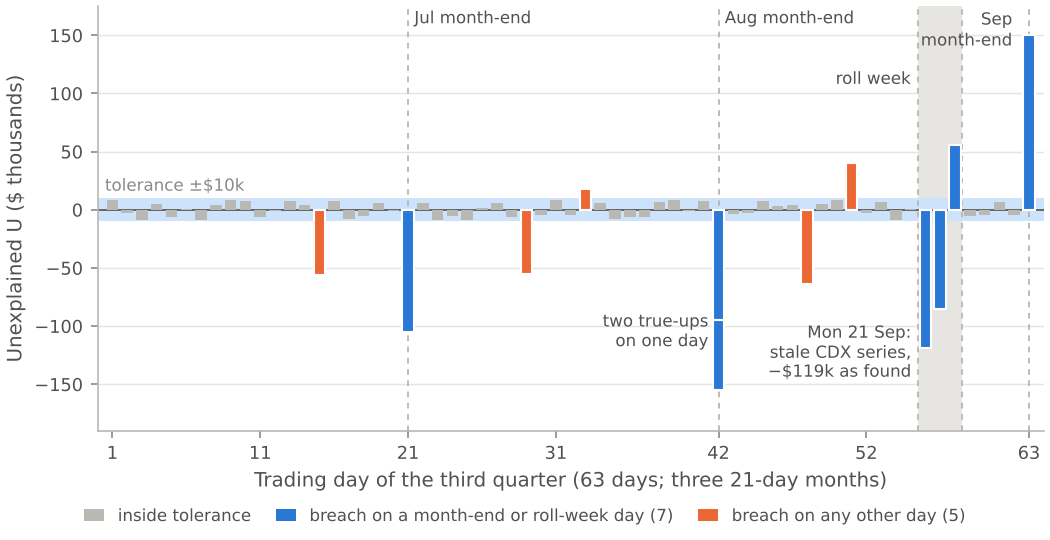
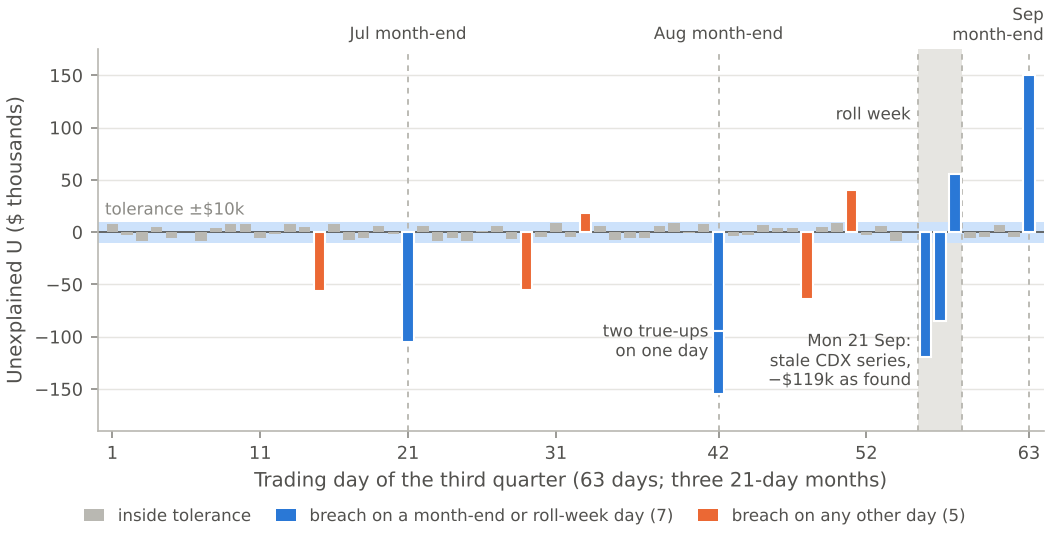
Snapshot: in-flight Edition 2 work
Claude-Session: https://claude.ai/code/session_01PHHQVL5vNoxjdDFeTkxsPq

diff --git a/tools/figures/ch08c.py b/tools/figures/ch08c.py
@@ -115,7 +115,7 @@ def fig_waterfall():
     # tolerance band around the explained total (the official number must land inside it)
     explained = -390.0
     ax.add_patch(Rectangle((explained - TOL, n - 3 - 0.45), 2 * TOL, 3 * 1.0 - 0.1, color=C_TOL, zorder=1, lw=0))
-    ax.text(explained + TOL + 8, n - 2, "tolerance band " + "\u00b1" + "$10k around the explained total", va="center",
+    ax.text(explained + TOL + 8, n - 2, "tolerance " + "\u00b1" + "$10k around the explained total", va="center",
             ha="left", fontsize=8, color=MUTED)
 
     ax.set_yticks(range(n))
@@ -151,7 +151,7 @@ def fig_waterfall():
 
     from matplotlib.patches import Patch
     handles = [Patch(color=C_FACT, label="Fact (custodian, exchange, clearing, treasury, blotter)"),
-               Patch(color=C_MODEL, label="Model forecast (risk model x market moves)"),
+               Patch(color=C_MODEL, label="Model forecast (risk model \u00d7 market moves)"),
                Patch(color=C_PC, label="Product control correction"),
                Patch(color=C_U, label="Unexplained (no source)")]
     fig.legend(handles=handles, loc="outside lower center", ncol=2, fontsize=8, handlelength=1.2,
@@ -422,13 +422,15 @@ def fig_unexplained_by_day():
             else:
                 neg += v
     ax.axhline(0, color=INK_2, lw=0.8, zorder=2)
-    # month-end lines
-    for d, nm in zip([21, 42], ["Jul month-end", "Aug month-end"]):
-        mark_event(ax, d, nm, y_frac=0.99)
-    ax.axvline(63, color=NEUTRAL, lw=0.9, linestyle=(0, (3, 3)), zorder=1)
-    ax.annotate("Sep\nmonth-end", (63, 0.99), xycoords=("data", "axes fraction"), xytext=(-8, 0),
-                textcoords="offset points", fontsize=8, color=INK_2, va="top", ha="right", linespacing=1.15)
+    # month-end lines, labelled in a row above the plot so no dashed line runs through a label
+    for d in (21, 42, 63):
+        ax.axvline(d, color=NEUTRAL, lw=0.9, linestyle=(0, (3, 3)), zorder=1)
+    top = dict(xycoords=("data", "axes fraction"), textcoords="offset points", xytext=(0, 3), va="bottom",
+               fontsize=8, color=INK_2, annotation_clip=False)
+    ax.annotate("Jul month-end", (21, 1.0), ha="center", **top)
+    ax.annotate("Aug month-end", (42, 1.0), ha="center", **top)
     ax.text(55.0, 112, "roll week", ha="right", va="center", fontsize=8, color=INK_2)
+    ax.annotate("Sep\nmonth-end", (64, 1.0), ha="right", linespacing=1.1, **top)
     ax.annotate("Mon 21 Sep:\nstale CDX series,\n" + MINUS + "$119k as found", (55.6, -119), xytext=(-4, -2),
                 textcoords="offset points", fontsize=8, color=INK_2, va="center", ha="right", linespacing=1.15)
     ax.annotate("two true-ups\non one day", (41.6, -105), xytext=(-2, 0), textcoords="offset points",

diff --git a/book_src/02_ch02_revolutions_in_credit_trading.md b/book_src/02_ch02_revolutions_in_credit_trading.md
@@ -269,7 +269,7 @@ Theo's first instinct with a table like this is a banker's: find the biggest num
 
 "Fine. IG is 48%."
 
-"Or about 60%. Or around half. Which?" She scrolls to the source column. Greenwich says 48% for full-year 2024. MarketAxess's own 10-K estimates, on the company's definition, say about 50% for the same year and about 60% for 2025. Barclays, as reported in September 2025, puts it around or above half on broader definitions. "Same market, same year. The difference is the word 'electronic.'" She counts its meanings on her fingers. *Fully electronic*: negotiated and executed on a venue. *Processed*: negotiated by voice or chat, booked electronically afterward. *Auto-executed*: no human touched it at all. "And then the denominator: notional, ticket count or customer volume. A ticket-count share runs higher than a notional share, because the wire got the small tickets first. Kaz won't touch a series until somebody has written on it which 'electronic' it means and what it divides by. This week, that somebody is you."
+"Or about 60%. Or around half. Which?" She scrolls to the source column. Greenwich says 48% for full-year 2024. MarketAxess's own 10-K estimates, on the company's definition, say about 50% for the same year and about 60% for 2025. Barclays, as reported in September 2025, puts it around or above half on broader definitions. "Same market, same year. The difference is the word 'electronic.'" She counts its meanings on her fingers. *Fully electronic*: negotiated and executed on a venue. *Processed*: negotiated by voice or chat, booked electronically afterward. *Auto-executed*: no human touched it at all. "And then the denominator: notional, ticket count or customer volume. A ticket-count share runs higher than a notional share, because the wire got the small tickets first. Bondwave divides portfolio trading by *customer* volume; a platform quotes its share of TRACE, interdealer prints included. Splice two of those into one series and your fitted growth rate partly measures the change of definition. Kaz won't touch a series until somebody has written on it which 'electronic' it means and what it divides by. This week, that somebody is you."
 
 Theo looks at the HY column again. 29% in February 2024, 30% in February 2025, against 33% for full-year 2024. "So HY went backwards?"
 
@@ -285,17 +285,13 @@ so 103% of HY would trade electronically by 2030. Nobody told it that $K \le 1$.
 
 The honest model is a logistic with a ceiling, and the intuition behind it is older than any bond market.
 
-> **Math, Gently.** *Odds and the S-curve.* Picture a rumor loose in a school of 1,000 pupils. On the first morning ten of them know it. Each one who knows passes it on at a steady rate, but only to pupils who have not heard it yet. So at the start the rumor spreads slowly, because there are few tellers, and at the end it spreads slowly, because there is almost nobody left to tell. It spreads fastest when half the school knows, and a plot of "share who know" against time is an S. The top of the S is the size of the school, not infinity. There is a ceiling, $K$, and in a bond market the ceiling is set by the tickets that will never leave the phone. (ROBO's 103% is what happens when a model forgets the school has walls.) The trick that tames the S is to stop watching the share and watch the **odds**: those who know divided by those still to be told, $e/(K-e)$. On a logistic S-curve the odds grow by the same *percentage* every year, so their logarithm, the **log-odds**, rises in a straight line, and a straight line can be drawn with a ruler and two points. A tiny number: US IG electronic share was about 20% in 2015 and 48% in 2025 (Greenwich). With $K = 1$ the odds went from $0.20/0.80 = 0.25$ to $0.48/0.52 \approx 0.92$, multiplying by about 3.7 in ten years. That is a growth rate of $r \approx 0.131$ a year, and odds that grow at rate $r$ double every $\ln 2/r \approx 0.693/0.131 \approx 5.3$ years. The full version is the derivation below.
+> **Math, Gently.** *Odds and the S-curve.* Picture a rumor loose in a school of 1,000 pupils. On the first morning ten of them know it. Each one who knows passes it on at a steady rate, but only to pupils who have not heard it yet. So at the start the rumor spreads slowly, because there are few tellers, and at the end it spreads slowly, because there is almost nobody left to tell. It spreads fastest when half the school knows, and a plot of "share who know" against time is an S. The top of the S is the size of the school, not infinity. There is a ceiling, $K$, and in a bond market the ceiling is set by the tickets that will never leave the phone. (ROBO's 103% is what happens when a model forgets the school has walls.) The trick that tames the S is to stop watching the share and watch the **odds**: those who know divided by those still to be told, $e/(K-e)$. On a logistic S-curve the odds grow by the same *percentage* every year, so their logarithm, the **log-odds**, rises in a straight line, and a straight line can be drawn with a ruler and two points. A tiny number: if a share climbs from 20% to 50% in ten years with $K = 1$, the odds go from $0.20/0.80 = 0.25$ to $0.50/0.50 = 1$, multiplying by 4. That is a growth rate of $r = \ln 4/10 \approx 0.139$ a year, and odds growing at that rate double every $\ln 2/r \approx 5$ years. The derivation below runs the real IG and HY points.
 
-The same ruler through the HY points gives a steeper line, with odds doubling every 3.5 years, because HY started from 6%. Projected to 2030 with a ceiling of 100%, IG reaches 64% and HY 56%. These are *illustrative extrapolations*, not forecasts, and the projection is the least interesting thing the arithmetic says.
+Two things sit inside the arithmetic, and both matter more than the projections.
 
-Two things sit inside that arithmetic, and both are better than the numbers.
+*The ceiling is not identified from two points.* Each choice of $K$ gives a different line through the same two observations. Redo the fit with $K = 0.80$, roughly the ceiling Barclays has suggested for electronic execution (via The DESK, Jan 2025), and the fitted slope *rises* while the 2030 projection falls (the derivation below has the numbers). A lower ceiling means a *faster* implied adoption rate, because the same observed share is closer to the ceiling than it looked. You need curvature to estimate $K$, meaning at least three points with the curve visibly bending. The only bend in the US IG series is 2024 to 2025 (48% to 48%), a single year that could just as well be noise. In practice, $K$ comes from outside evidence, and §2.8's is blunt: at the end of 2023 about nine block trades in ten still went by phone or chat.
 
-*The ceiling is not identified from two points.* Each choice of $K$ gives a different line through the same two observations. Redo the fit with $K = 0.80$, roughly the ceiling Barclays has suggested for electronic execution (via The DESK, Jan 2025), and the IG slope rises from 0.131 to 0.150 a year while the 2030 projection falls from 64% to 61%; HY moves to a slope of 0.211 and a 2030 value of 53%. A lower ceiling means a *faster* implied adoption rate, because the same observed share is closer to the ceiling than it looked. You need curvature to estimate $K$, meaning at least three points with the curve visibly bending. The only bend in the US IG series is 2024 to 2025 (48% to 48%), a single year that could just as well be noise. In practice, $K$ comes from outside evidence, and here the outside evidence is blunt: in December 2023 about 90% of block trades (IG of \$5mm or more, HY of \$1mm or more) were still done by phone or chat (Greenwich, Dec 7, 2023). Section 2.8 returns to those blocks.
-
-*Fit the right object.* If you fit all three parameters by least squares on the levels, an optimizer given the IG points $\{0.20, 0.48, 0.48\}$ is free to set $K$ at about 0.48, make $r$ as steep as its bounds allow and report that US IG electronification was over by about 2017. The fit is perfect, and meaningless. Kaz tried this. Kaz now treats a fitted ceiling equal to the latest observation as a diagnostic, not a result. The code in §2.9 prints a warning when it happens.
-
-So when does the curve earn its place? It is a good way to *frame* a projection. It lets a desk say "if the ceiling is 80%, here is how fast the remaining gap closes," and it shows a PM that "electronification is finished" and "electronification has decades to run" are both claims about $K$, not about $r$. It is a poor way to *estimate* $K$, for the reasons Kaz learned the hard way. A practitioner gets the ceiling from the anatomy of the market instead. About 90% of blocks still went by phone or chat in December 2023, and blocks carry a large share of notional, which puts a lid well below 100% on any notional-weighted series. HY has sat near a third for four years, which is either a ceiling or a very long plateau, and no curve fitted to those points can say which. Before trusting a projection, an experienced hand checks three things: whether the series' definition changed partway (the box below), whether a stress year sits in the sample (HY e-share falls when trading gets hard), and whether the fitted ceiling equals the latest observation. And the curve breaks outright when the mechanism changes. Portfolio trading (§2.6) put blocks on the wire as baskets, which moves the ceiling itself, and a logistic with a fixed $K$ has no way of noticing.
+*Fit the right object.* If you fit all three parameters by least squares on the levels, an optimizer given the IG points $\{0.20, 0.48, 0.48\}$ is free to set $K$ at about 0.48, make $r$ as steep as its bounds allow and report that US IG electronification was over by about 2017. The fit is perfect, and meaningless. Kaz tried this. Kaz now treats a fitted ceiling equal to the latest observation as a diagnostic, not a result, and the code in §2.9 prints a warning when it happens. A ceiling also has a shelf life: portfolio trading (§2.6) put blocks on the wire as baskets, which moved $K$ itself, and a logistic with a fixed $K$ has no way of noticing.
 
 #### The Full Derivation: fitting a ceiling from two points
 
@@ -322,8 +318,6 @@ Since $e_t/(K-e_t)$ is the odds of "electronic" relative to the ceiling, and tho
 Now plug in Greenwich's 2015 and 2025 numbers with $K = 1$. For IG, $z = \ln(0.20/0.80) = -1.3863$ in 2015 and $\ln(0.48/0.52) = -0.0800$ in 2025, so $\hat r_{IG} = 1.3063/10 = 0.131$ per year and the odds double every $0.6931/0.131 = 5.3$ years. For HY, $z = \ln(0.06/0.94) = -2.7515$ and $\ln(0.32/0.68) = -0.7538$, so $\hat r_{HY} = 0.200$ per year, with odds doubling every 3.5 years. Projected to 2030 with $K=1$, IG reaches $1/(1+e^{-0.573}) = 64\%$ and HY reaches $1/(1+e^{-0.245}) = 56\%$. These are *illustrative extrapolations*, not forecasts.
 
 The ceiling-sensitivity fit works the same way. With $K = 0.80$, the IG slope rises to $\hat r_{IG}(0.8) = [\ln(0.48/0.32) - \ln(0.20/0.60)]/10 = 0.150$, and the 2030 projection falls to $0.8/(1 + e^{-1.158}) = 61\%$. HY becomes $\hat r = 0.211$ with a 2030 value of 53%.
-
-> **Ways This Blows Up.** *Splicing denominators.* Greenwich reports notional share of total market volume. MarketAxess reports its own estimate of the electronic share. Bondwave reports portfolio trading as a share of *customer* volume. A platform reports its share of TRACE, which includes interdealer prints. Splice two of these into one series and your fitted $r$ partly measures the change of definition. The rule: one series per source, and the source and denominator go in the dataframe schema (§2.9), not in a footnote.
 
 ### 2.3.2 The RFQ as an auction: why eleven anchored dealers are worth about two
 
@@ -849,7 +843,7 @@ Asked to "route every line to the cheapest protocol," ROBO sent the whole book t
 
 **Module.** `ch02_electronification_trend.py`, four cumulative blocks that run in order in one interpreter on numpy, scipy and pandas, seeded with `SEED = 7`.
 
-**Schemas and shapes.** `OBS: DataFrame[year: float, segment: str, share: float in (0,1), source: str]`, one row per *sourced* observation, one source series per segment (§2.3 Ways This Blows Up). `fit_adoption(years, shares, K)` takes two `(N,)` arrays and returns a dict `{K, r, t0, odds_doubling_years, logit_resid, projection, note}`, where `projection: DataFrame[year: int, share_hat: float, K: float]` covers 2026–2030. `rfq_best_of_n(theta, n, phi)` returns Monte Carlo and closed-form best quote, cover gap and $n_{\text{eff}}$. Quote distances are in points of price. `lcs_*` return a round-trip fraction of price. `man_tc_bp` returns one-way bp of price. `route(lines, kappa_bp)` takes `DataFrame[line_id: str, protocol: str, pi_fill: float in [0,1], c_fill_bp: float]` and returns the best protocol per line together with the full $J$ table.
+**Schemas and shapes.** `OBS: DataFrame[year: float, segment: str, share: float in (0,1), source: str]`, one row per *sourced* observation, one source series per segment (Ines's rule in §2.3). `fit_adoption(years, shares, K)` takes two `(N,)` arrays and returns a dict `{K, r, t0, odds_doubling_years, logit_resid, projection, note}`, where `projection: DataFrame[year: int, share_hat: float, K: float]` covers 2026–2030. `rfq_best_of_n(theta, n, phi)` returns Monte Carlo and closed-form best quote, cover gap and $n_{\text{eff}}$. Quote distances are in points of price. `lcs_*` return a round-trip fraction of price. `man_tc_bp` returns one-way bp of price. `route(lines, kappa_bp)` takes `DataFrame[line_id: str, protocol: str, pi_fill: float in [0,1], c_fill_bp: float]` and returns the best protocol per line together with the full $J$ table.
 
 **Edge cases and guards.** Shares at 0 or 1 are clipped to $[10^{-4}, 1-10^{-4}]$ with a warning, and the logarithm only ever sees clipped values. A single observation returns `None`. A ceiling $K$ at or below the largest observed share raises an error. A non-increasing series raises an error, and a non-monotone one is fitted with its logit residuals reported. The three-parameter fit runs `curve_fit` with bounds $K \in [0.05, 1]$, $r \in (0, 2]$, `maxfev=10000` and `p0 = (0.9, r_ols, t0_ols)`. If it fails, the code falls back to logit-OLS, and it attaches a "not identified" note when $\hat K$ lands on the last observation or $\hat r$ hits its bound. Years are centered on 2015 so the optimizer is not asked to resolve $t_0 \approx 2025$ to $10^{-6}$ in absolute terms. Monte Carlo uses $2\times 10^5$ draws, which gives a standard error of about 0.2% on each mean.
 

diff --git a/book_src/01_ch01_anthology_and_landscape.md b/book_src/01_ch01_anthology_and_landscape.md
@@ -397,7 +397,9 @@ Theo met the first family on a Tuesday when Halvorsen's bonds did not trade at a
 >
 > **Annotation.** Under the Gaussian map, $N(-4) \approx 0.003\%$. Under the empirical map, it is almost $1\%$: a factor of roughly 300. Kaz, on hearing this: "Let's just assume Gaussian... I regret it already." The lesson for a specifier is that the structural model is excellent at *ranking* firms and terrible at *calibrating* them, so production systems keep the DD and replace $N(\cdot)$ with an empirically fitted, monotone map from DD to default frequency. If ROBO is told to "compute PD from Merton," it will use $N(-\text{DD})$, and every IG name in the book will look immortal.
 
-**When to reach for distance to default, and when it breaks.** Reach for the Merton DD in two jobs. The first is *ranking*: across a universe of issuers, a lower DD is reliably a worse credit, and a DD that is collapsing week after week is one of the best early warnings the desk has (the Ford case in §1.8 is an example). The second is a *fresh fair-value input between bond prints*: the equity trades every second and the bond trades twice a week, so a DD that moved this morning tells the bid something the last TRACE print cannot. It breaks for *calibration*, as the extraction above shows; use an empirical map, never $N(\cdot)$, when you need a number rather than an order. It breaks for firms whose equity is itself an option on a restructuring, where the stock trades on what a plan of reorganization might leave shareholders rather than on asset value, so backing $V_t$ out of $E_t$ produces nonsense. And it breaks at short maturities, because a diffusion cannot default by surprise tomorrow, which is precisely the gap the second family fills. Before trusting a DD, a seasoned analyst checks three things: whether the default point $F$ includes the debt that actually matters (a drop-down can create senior debt overnight), whether the equity volatility is from a calm month or a noisy one, and whether the stock is trading as a claim on the firm or as a lottery ticket on the plan.
+Mags had been half-listening from the recovery waterfall. "Ranking I'll give you," she said. "A DD that falls every week for a month, I want to hear about. Now try it on Halvorsen this week. The stock isn't a claim on the assets any more; it's a lottery ticket on the plan, priced on whatever the restructuring might leave shareholders. Back $V_t$ out of that and you've measured the rumour, not the firm." She went back to the waterfall, then added, without looking up: "And check what's in your $F$. A drop-down can create senior debt overnight."
+
+Kaz had no answer to either, and turned to the other family, the one that does not need the stock at all.
 
 > **[SOURCE EXTRACTION]** *Schmid_Credit_Risk_Pricing_Models p.128:* "the default time is unpredictable and therefore the behavior of credit spreads for short maturities can be captured more realistically." ... "their main draw-back is the missing link between firm value and corporate default."
 >
